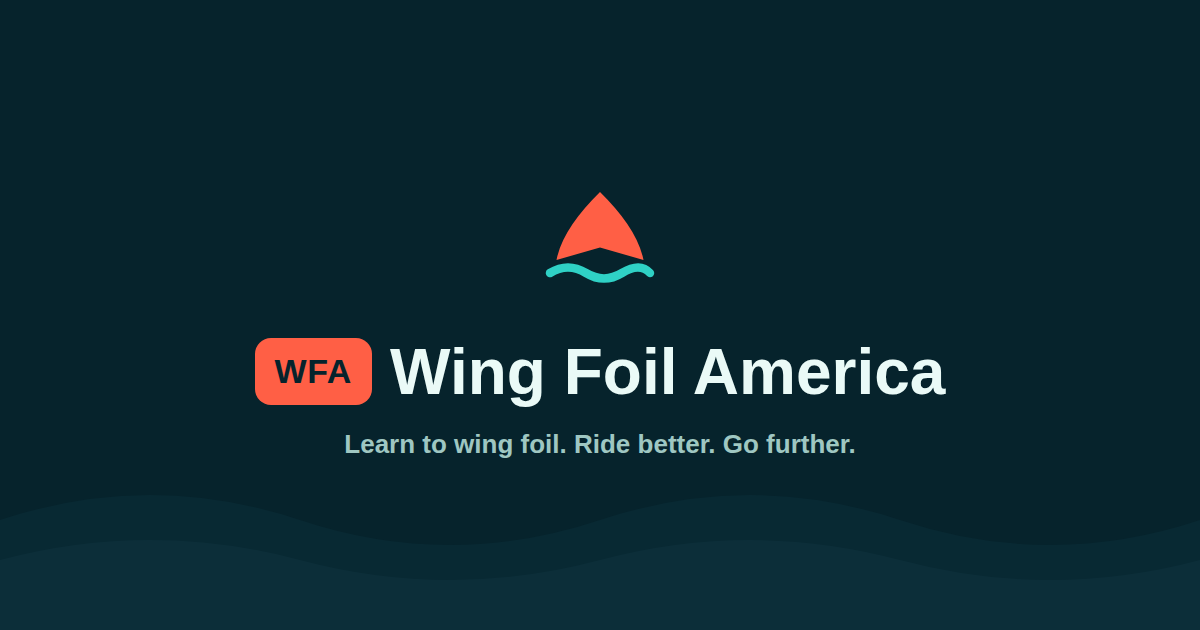
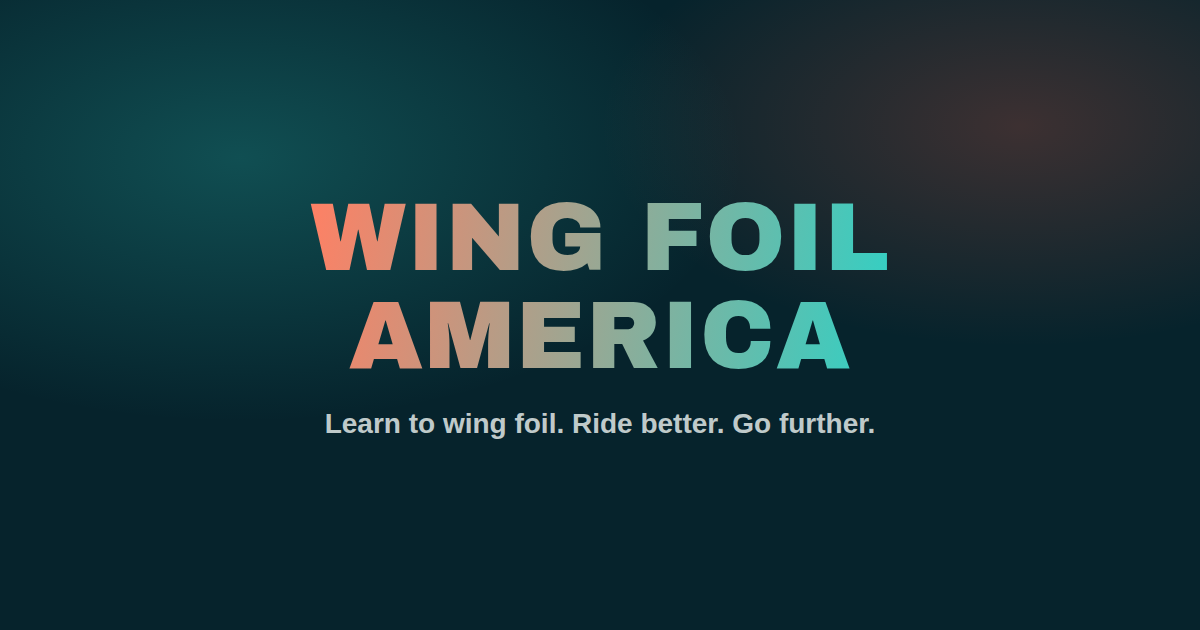
Fix stale og-image, Submit-a-Spot modal z-index, remove Lowdermilk Park
- Replace og-image.png: it was still the very first placeholder design
  (old triangle mark + "WFA" badge) from before the logo replacement,
  never regenerated since. New version uses the real, already-decided
  wordmark treatment with no icon graphic, since the icon itself is
  still an open decision. Favicon/apple-touch-icon were already correct
  (the six-line Wind & Water mark) — likely a stale browser-cached
  favicon was mistaken for the same bug.
- Fix Submit-a-Spot modal rendering under the Leaflet map: its z-index
  (300) sat below Leaflet's own panes/controls (400-1000). Bumped to
  2000, and did a styling pass — visible title/eyebrow header, teal top
  border, shadow, backdrop blur, and a 44px close button.
- Remove Lowdermilk Park from where-to-ride-spots.json (not a spot Will
  recommends; better real Naples spots are already on the map).
- Add Will's personal note to Hood River Event Site's description
  (verified stays community-reported — he hasn't sailed it yet).

diff --git a/src/assets/css/where-to-ride.css b/src/assets/css/where-to-ride.css
@@ -118,22 +118,36 @@
 
 body.modal-open{ overflow: hidden; }
 .submit-spot-modal{
-  position: fixed; inset: 0; z-index: 300;
+  position: fixed; inset: 0; z-index: 2000;
   display: flex; align-items: center; justify-content: center; padding: 24px;
 }
 .submit-spot-modal[hidden]{ display: none; }
-.submit-spot-modal-backdrop{ position: absolute; inset: 0; background: rgba(6,35,44,0.82); }
+.submit-spot-modal-backdrop{
+  position: absolute; inset: 0; background: rgba(6,35,44,0.82); backdrop-filter: blur(4px);
+}
 .submit-spot-modal-dialog{
   position: relative; z-index: 1; width: 100%; max-width: 560px; max-height: 90vh;
   overflow-y: auto; background: var(--ink-2); border: 1px solid var(--line);
-  border-radius: var(--radius); padding: 12px;
+  border-top: 2px solid var(--teal); border-radius: var(--radius); padding: 20px;
+  box-shadow: 0 24px 60px rgba(0,0,0,0.45);
+  animation: submitSpotModalIn 0.18s ease;
 }
-.submit-spot-modal-header{ display: flex; justify-content: flex-end; }
+@keyframes submitSpotModalIn{
+  from{ opacity: 0; transform: translateY(8px); }
+  to{ opacity: 1; transform: translateY(0); }
+}
+.submit-spot-modal-header{
+  display: flex; align-items: flex-start; justify-content: space-between; gap: 16px;
+  padding-bottom: 16px; margin-bottom: 16px; border-bottom: 1px solid var(--line);
+}
+.submit-spot-modal-eyebrow{ margin-bottom: 6px; }
+.submit-spot-modal-title{ margin: 0; font-size: 1.3rem; }
 .submit-spot-modal-close{
-  background: none; border: none; color: var(--foam-dim); font-size: 1.7rem; line-height: 1;
-  cursor: pointer; padding: 4px 10px; border-radius: 8px;
+  flex: none; width: 44px; height: 44px; display: flex; align-items: center; justify-content: center;
+  background: none; border: none; color: var(--foam-dim); font-size: 1.6rem; line-height: 1;
+  cursor: pointer; border-radius: 8px; transition: color 0.15s, background 0.15s;
 }
 .submit-spot-modal-close:hover{ color: var(--foam); background: var(--ink-3); }
 .submit-spot-modal-dialog iframe{
-  display: block; width: 100%; border: none !important; border-radius: 10px; margin-top: 4px;
+  display: block; width: 100%; border: none !important; border-radius: 10px;
 }

diff --git a/src/where-to-ride/index.md b/src/where-to-ride/index.md
@@ -45,7 +45,10 @@ full rundown, or jump straight to the bottom to tell us about a spot that's miss
   <div class="submit-spot-modal-backdrop" data-modal-close></div>
   <div class="submit-spot-modal-dialog" role="dialog" aria-modal="true" aria-labelledby="submitSpotModalTitle">
     <div class="submit-spot-modal-header">
-      <h2 id="submitSpotModalTitle" class="sr-only">Submit a Spot</h2>
+      <div>
+        <p class="eyebrow submit-spot-modal-eyebrow">Where to Ride</p>
+        <h2 id="submitSpotModalTitle" class="submit-spot-modal-title">Submit a Spot</h2>
+      </div>
       <button type="button" class="submit-spot-modal-close" data-modal-close aria-label="Close">&times;</button>
     </div>
     <iframe id="submitSpotIframe" class="airtable-embed" data-src="https://airtable.com/embed/appJHchIsjqLQ4gvL/shr9crEhnDAMc3X2U" frameborder="0" width="100%" height="533" style="background: transparent;"></iframe>
